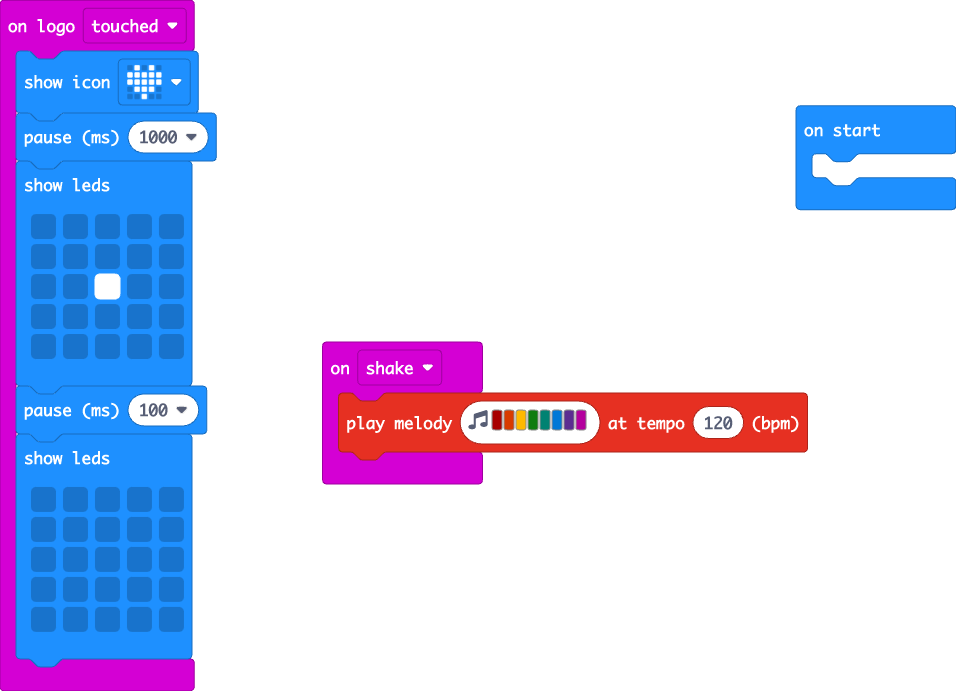
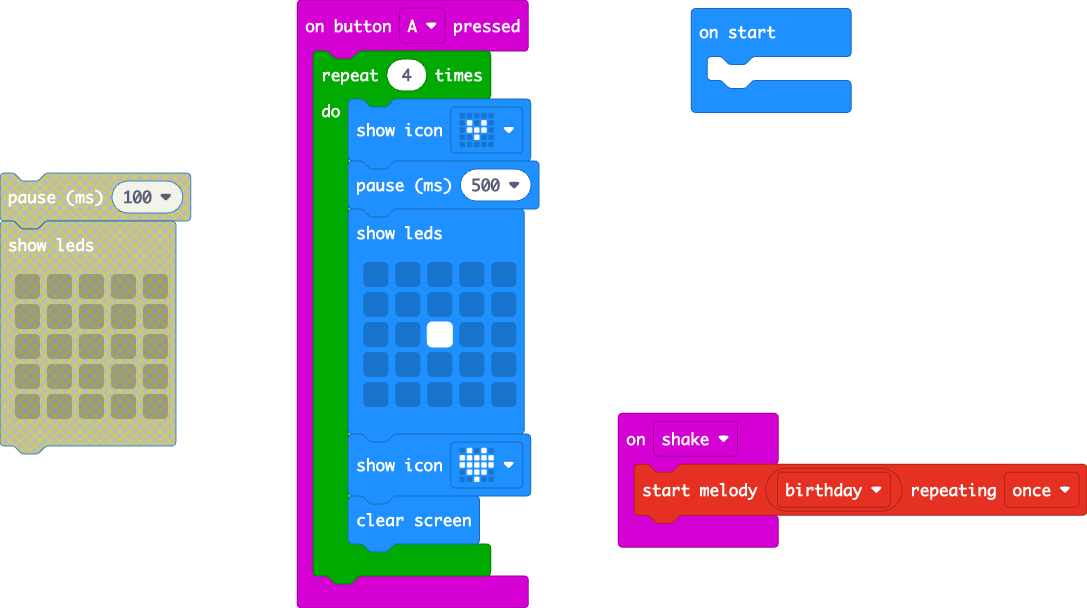
New code

diff --git a/main.ts b/main.ts
@@ -1,22 +1,18 @@
-input.onGesture(Gesture.Shake, function () {
-    music.playMelody("C5 B A G F E D C ", 120)
+input.onButtonPressed(Button.A, function () {
+    for (let index = 0; index < 4; index++) {
+        basic.showIcon(IconNames.SmallHeart)
+        basic.pause(500)
+        basic.showLeds(`
+            . . . . .
+            . . . . .
+            . . # . .
+            . . . . .
+            . . . . .
+            `)
+        basic.showIcon(IconNames.Heart)
+        basic.clearScreen()
+    }
 })
-input.onLogoEvent(TouchButtonEvent.Touched, function () {
-    basic.showIcon(IconNames.Heart)
-    basic.pause(1000)
-    basic.showLeds(`
-        . . . . .
-        . . . . .
-        . . # . .
-        . . . . .
-        . . . . .
-        `)
-    basic.pause(100)
-    basic.showLeds(`
-        . . . . .
-        . . . . .
-        . . . . .
-        . . . . .
-        . . . . .
-        `)
+input.onGesture(Gesture.Shake, function () {
+    music.startMelody(music.builtInMelody(Melodies.Birthday), MelodyOptions.Once)
 })
